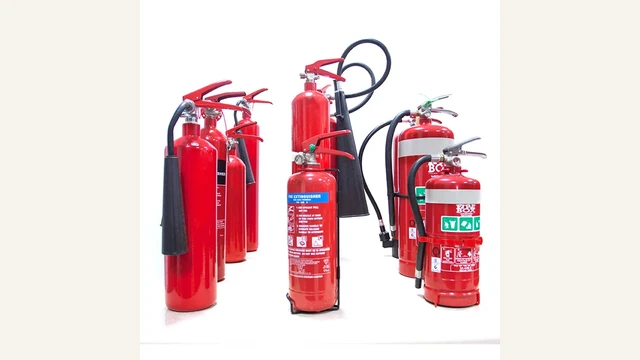
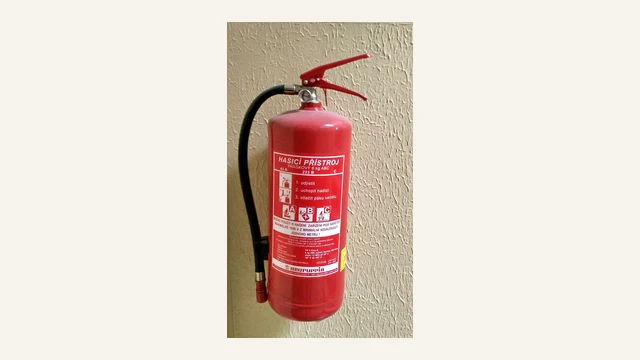
Fix and extend real equipment photos for the RIV bay
Replaces the powder-extinguisher photo (it showed a mixed group of six
assorted extinguishers, not the single dry-powder unit the item text
describes) with a clean single ABC dry-powder extinguisher photo.

Adds four real matching photos for RIV items that previously showed no
image: gas detector (Dräger X-am 7000), US-type hydrant key, warning
cone, and reuses the rescue tender's genuine Holmatro hydraulic
cutter/spreader photos for the RIV's named Holmatro 5040/5240 tools.

Claude-Session: https://claude.ai/code/session_01EvfvDbPCabkzm1kGtvf3v8

diff --git a/index.html b/index.html
@@ -4816,7 +4816,12 @@ const EQUIPMENT_IMAGES = {
   'مقص هيدروليك':'./assets/rescue-equipment/hydraulic-cutter.webp',
   'مفك هيدروليك كبير':'./assets/rescue-equipment/hydraulic-spreader.webp',
   'جهاز تنفس كامل':'./assets/rescue-equipment/scba.webp',
-  'مثلث مروري':'./assets/rescue-equipment/warning-triangle.webp'
+  'مثلث مروري':'./assets/rescue-equipment/warning-triangle.webp',
+  'جهاز كشف الغازات':'./assets/riv-equipment/gas-detector.webp',
+  'قواعد هرمية تحذيرية':'./assets/riv-equipment/warning-cone.webp',
+  'مفتاح هايدرنت أمريكي':'./assets/riv-equipment/hydrant-key.webp',
+  'مفك هيدروليك هولمترو 5240':'./assets/rescue-equipment/hydraulic-spreader.webp',
+  'مقص هيدروليك هولمترو 5040':'./assets/rescue-equipment/hydraulic-cutter.webp'
 };
 function applyDefaultEquipmentImages(){
   if(!DB || !DB.vehicles) return;
